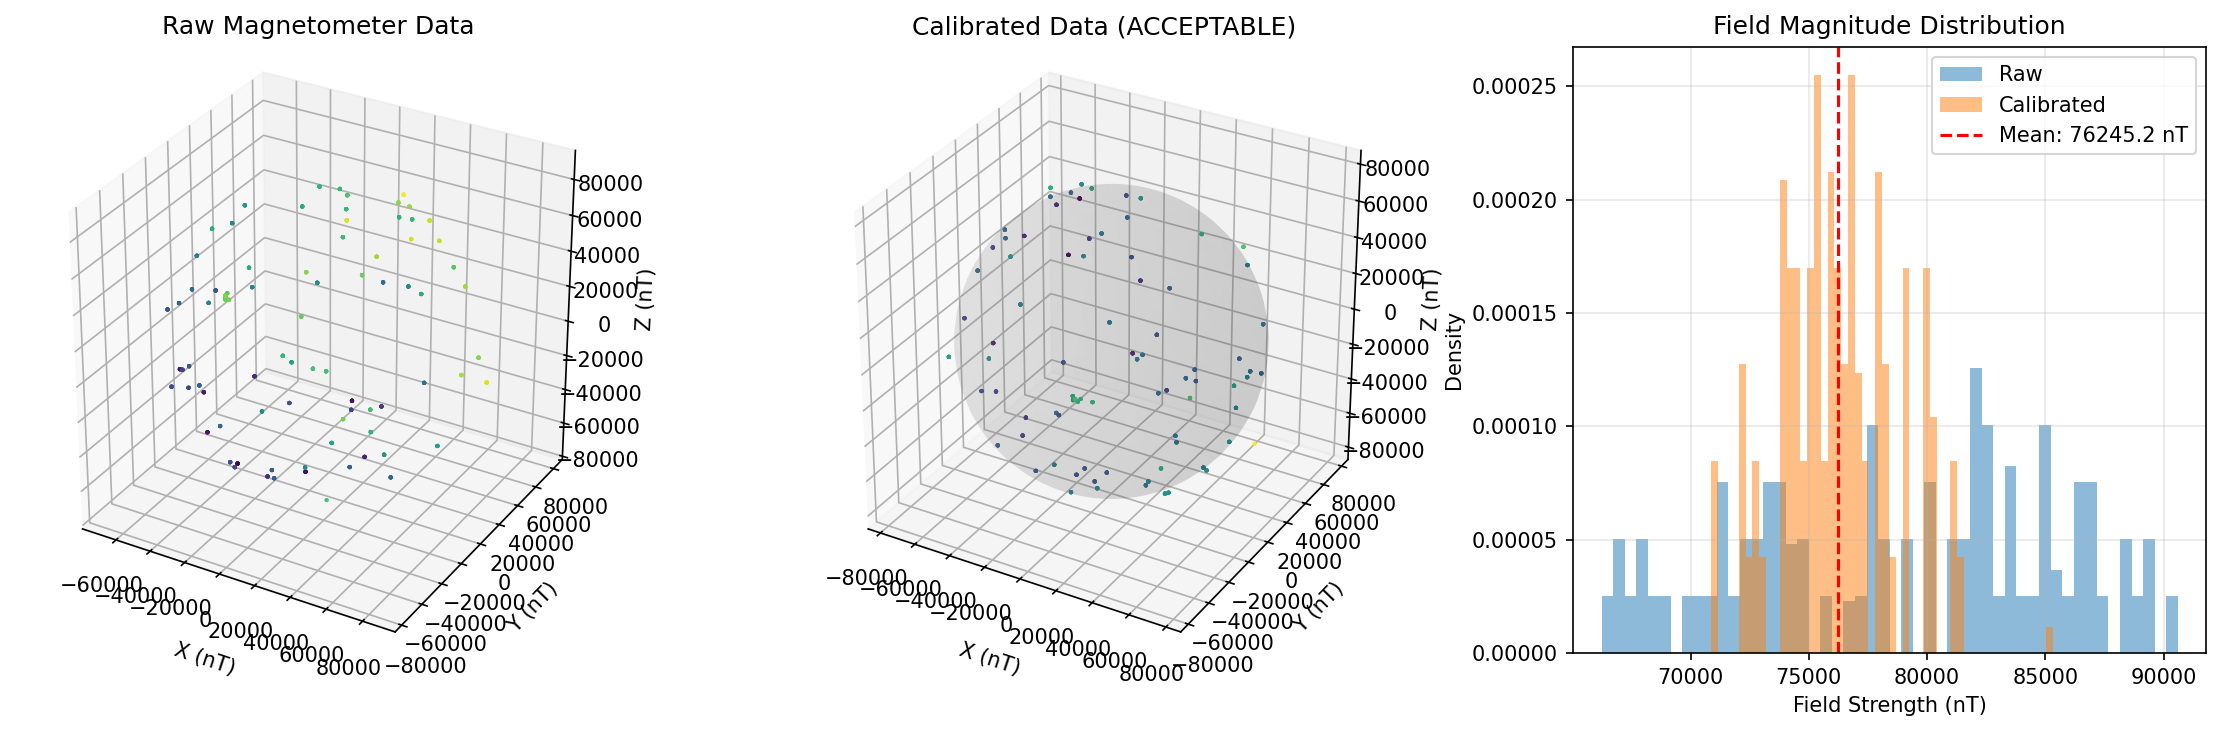
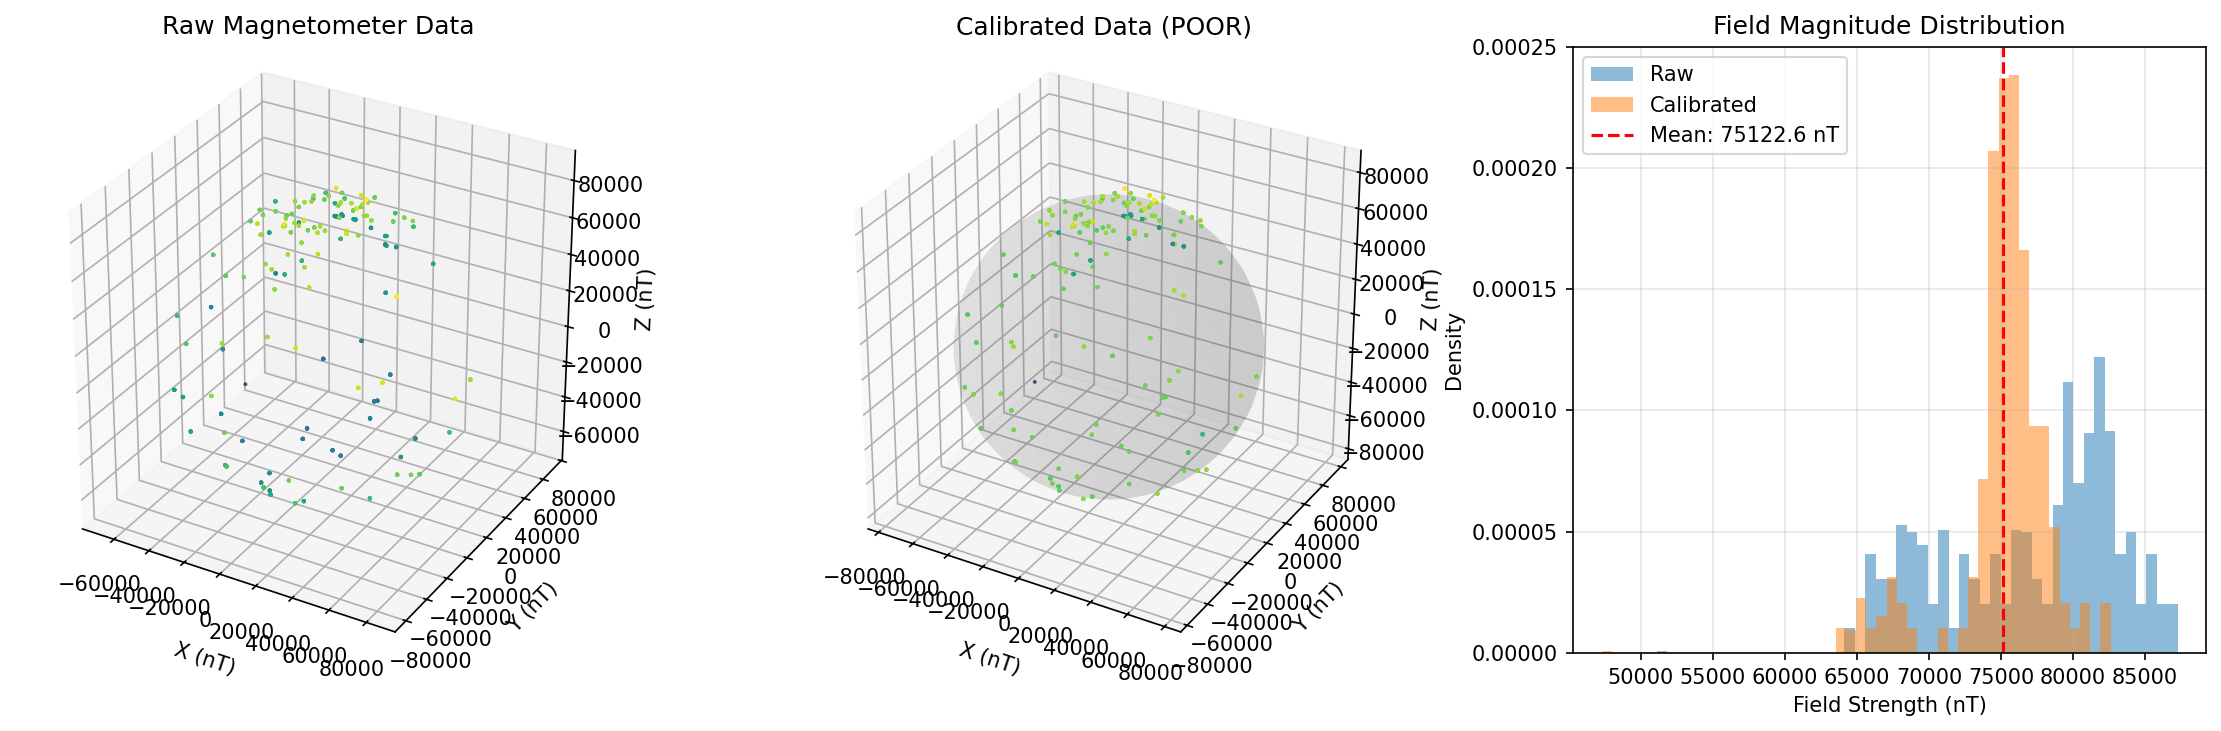
feat: Update magnetometer calibration and adjust IMU processing parameters

diff --git a/src/ble_stream.py b/src/ble_stream.py
@@ -71,7 +71,7 @@ class IMUStreamer:
     def _build_orientation_filter(self, sample_freq):
         """Build the configured orientation filter implementation."""
         if self.fusion_filter_name == 'madgwick':
-            return Madgwick(frequency=sample_freq)
+            return Madgwick(frequency=sample_freq, gain=0.2)  
         if self.fusion_filter_name == 'ekf':
             # ahrs.EKF requires a magnetic reference at construction time when
             # update() is called with mag measurements, otherwise it falls back
@@ -198,10 +198,17 @@ class IMUStreamer:
                             mag_x_nt = mag_x * MAG_SENSITIVITY ## in nT
                             mag_y_nt = mag_y * MAG_SENSITIVITY
                             mag_z_nt = mag_z * MAG_SENSITIVITY
-                            
+
                             # Apply magnetometer calibration if available
                             mag_raw = np.array([mag_x_nt, mag_y_nt, mag_z_nt])
-                            mag_calibrated = self.mag_calibration.apply_calibration(mag_raw)
+                            mag_calibrated_ = self.mag_calibration.apply_calibration(mag_raw)
+                            # Apply magnetometer displacement from acc
+                            mag_calibrated = np.array([
+                                mag_calibrated_[0],  # Invert X to match expected orientation
+                                mag_calibrated_[1],  # Invert Y to match expected orientation
+                                mag_calibrated_[2]    # Z is unchanged
+                            ])
+
                             mag_norm_raw = float(np.linalg.norm(mag_raw))
                             mag_norm_cal = float(np.linalg.norm(mag_calibrated))
 
@@ -220,6 +227,9 @@ class IMUStreamer:
                             gyr_vec = np.array([gyro_x_rad, gyro_y_rad, gyro_z_rad])
                             acc_vec = np.array([accel_x_g, accel_y_g, accel_z_g])
 
+                            # mag_calibrated = np.zeros(3)
+                            # acc_vec = np.zeros(3)
+                            # gyr_vec = np.zeros(3)
                             if self.fusion_filter_name == 'madgwick':
                                 q = self.orientation_filter.updateMARG(
                                     q=self.Q,
@@ -228,6 +238,7 @@ class IMUStreamer:
                                     mag=mag_calibrated,
                                     dt=filter_dt,
                                 )
+  
                             else:
                                 q = self.orientation_filter.update(
                                     q=self.Q,
@@ -236,6 +247,11 @@ class IMUStreamer:
                                     mag=mag_calibrated,
                                     dt=filter_dt,
                                 )
+                            # --- 60-SECOND DIAGNOSTIC PRINT ---
+                            if len(self.data_buffer) % 20 == 0: # Print every 20 frames so it doesn't lag
+                                print(f"ACCEL: X={accel_x_g:+6.2f} | Y={accel_y_g:+6.2f} | Z={accel_z_g:+6.2f}  ||  "
+                                    f"GYRO: X={gyro_x_rad:+7.2f} | Y={gyro_y_rad:+6.2f} | Z={gyro_z_rad:+6.2f} || "
+                                    f"MAG: X={mag_x_nt:+6.2f} | Y={mag_y_nt:+6.2f} | Z={mag_z_nt:+6.2f}")
 
                             # Add quaternion data
                             self.quat_w_data.append(q[0])

diff --git a/src/config.py b/src/config.py
@@ -8,13 +8,13 @@ ACCEL_SENSITIVITY = 0.061/1000.0
 GYRO_SENSITIVITY = 4.375/1000.0 ## Mod: sensitivity
 MAG_SENSITIVITY = 1.5 * 100 ## Mod: sensitivity
 DEG_TO_RAD = math.pi / 180.0
-GRAVITY = 9.80665
+GRAVITY = -9.80665
 SAMPLE_FREC = 20
 MAX_POINTS = 100  # Number of points to display
 
 # Sensor fusion configuration
 # Supported values: "madgwick", "ekf"
-FUSION_FILTER = "ekf"
+FUSION_FILTER = "madgwick"
 
 # EKF noise configuration
 # This file is generated by calibrate_ekf_noise.py and auto-loaded at runtime.

diff --git a/run.py b/run.py
@@ -7,7 +7,7 @@ from matplotlib.animation import FuncAnimation
 import threading
 
 def main():
-    duration = 30
+    duration = 60
     
     # Create streamer instance
     streamer = IMUStreamer(DEVICE_ADDRESS, CHARACTERISTIC_UUID, sample_freq=SAMPLE_FREC,
